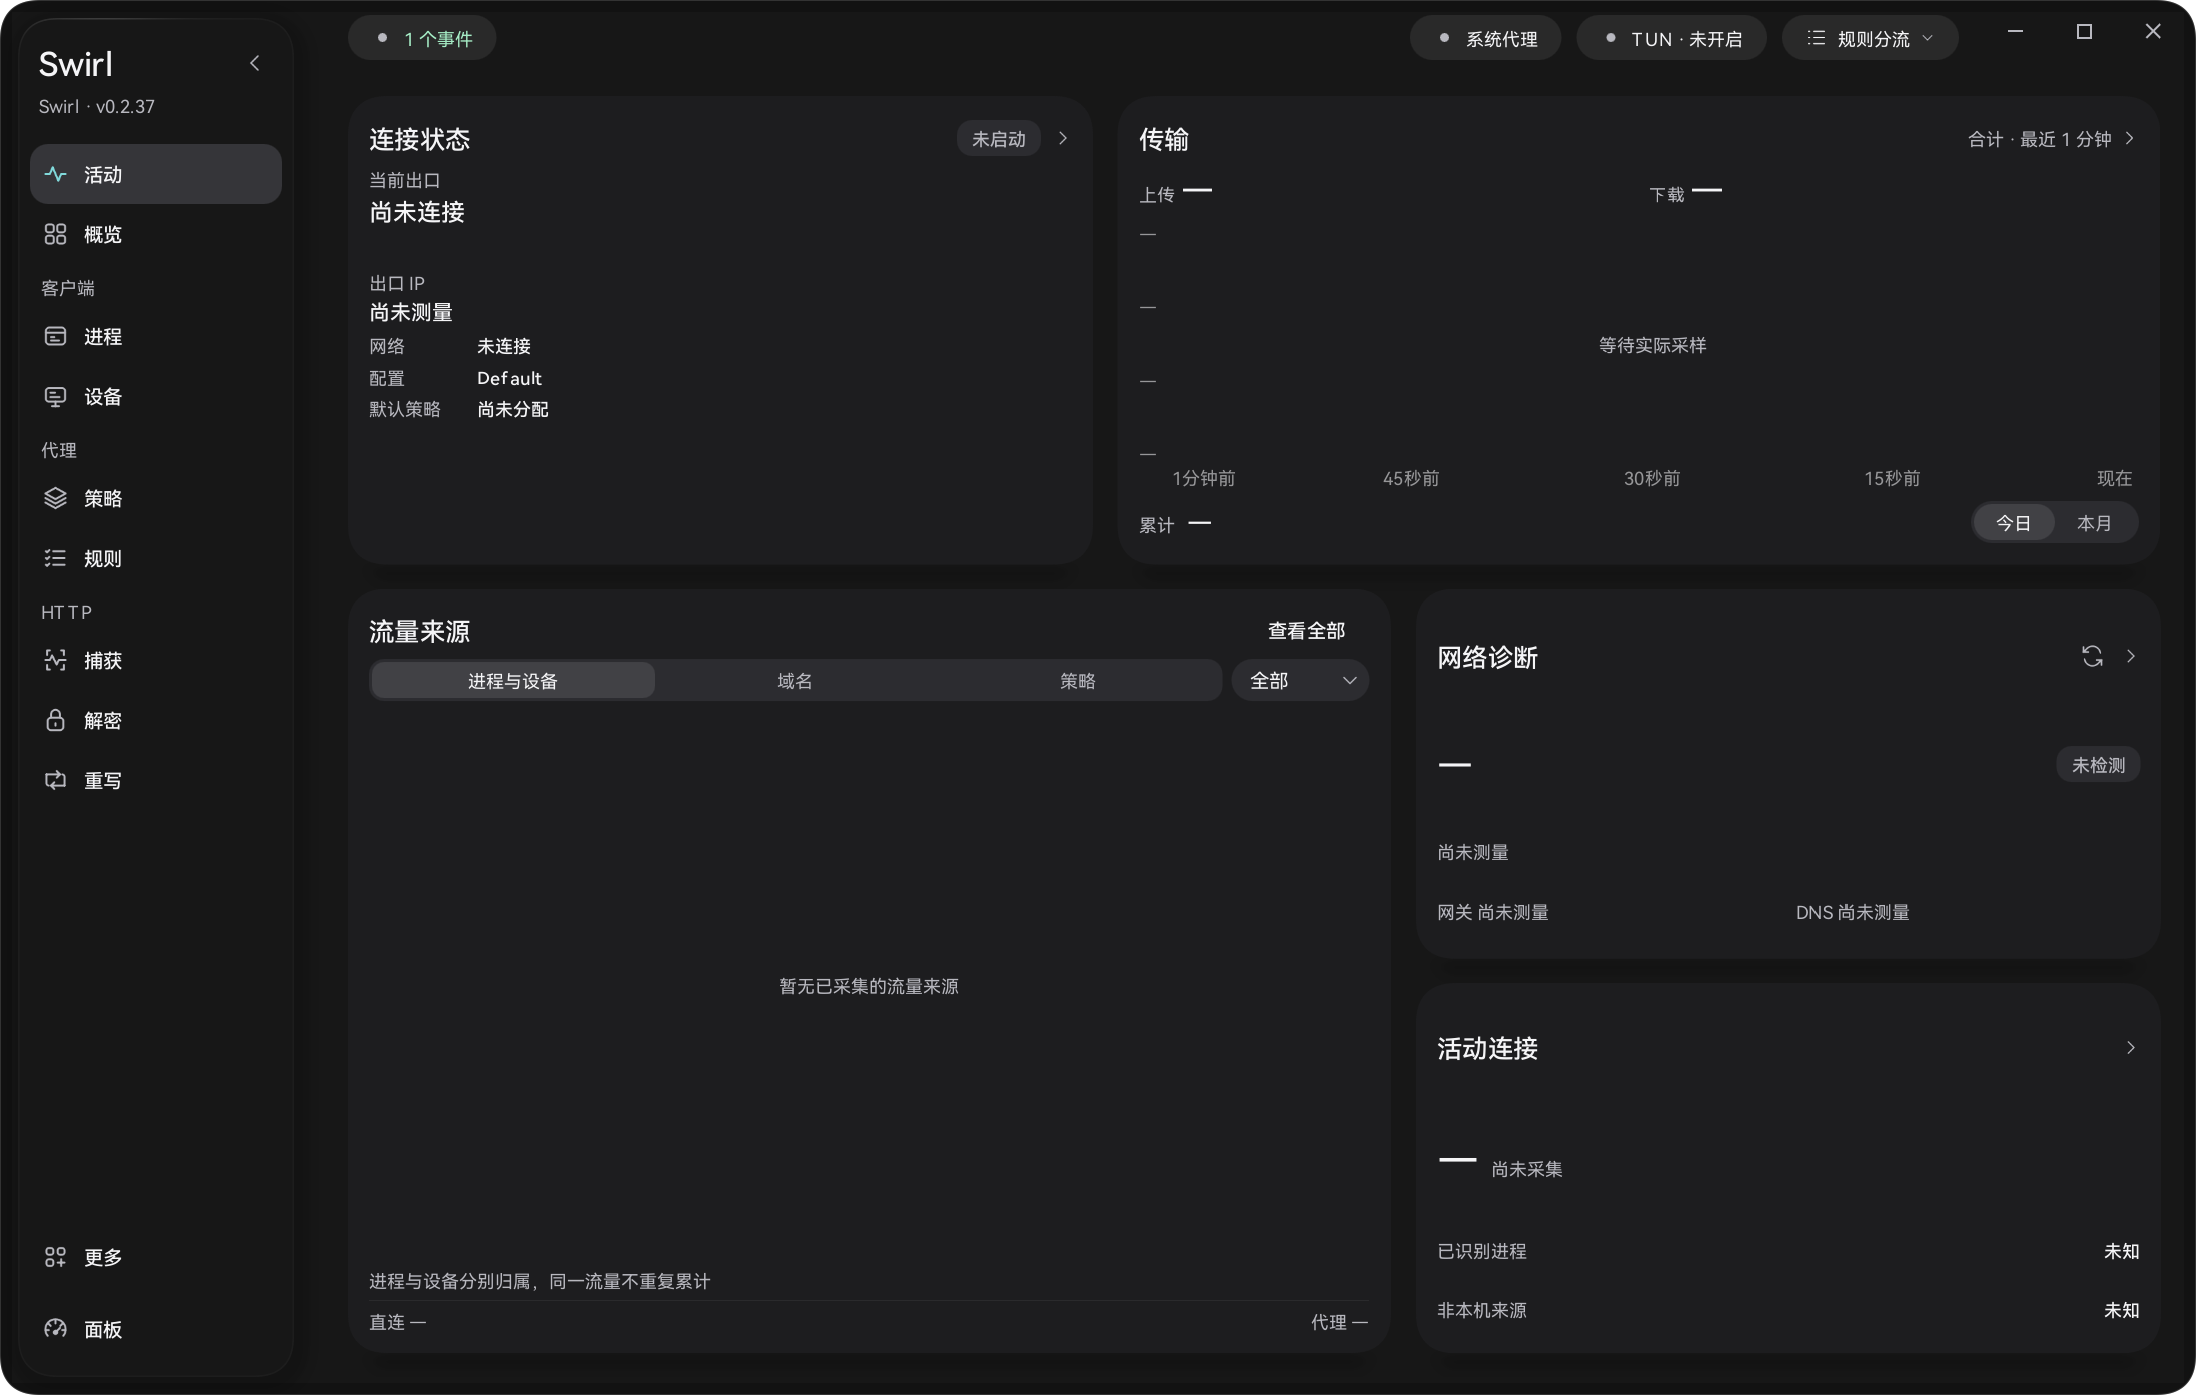
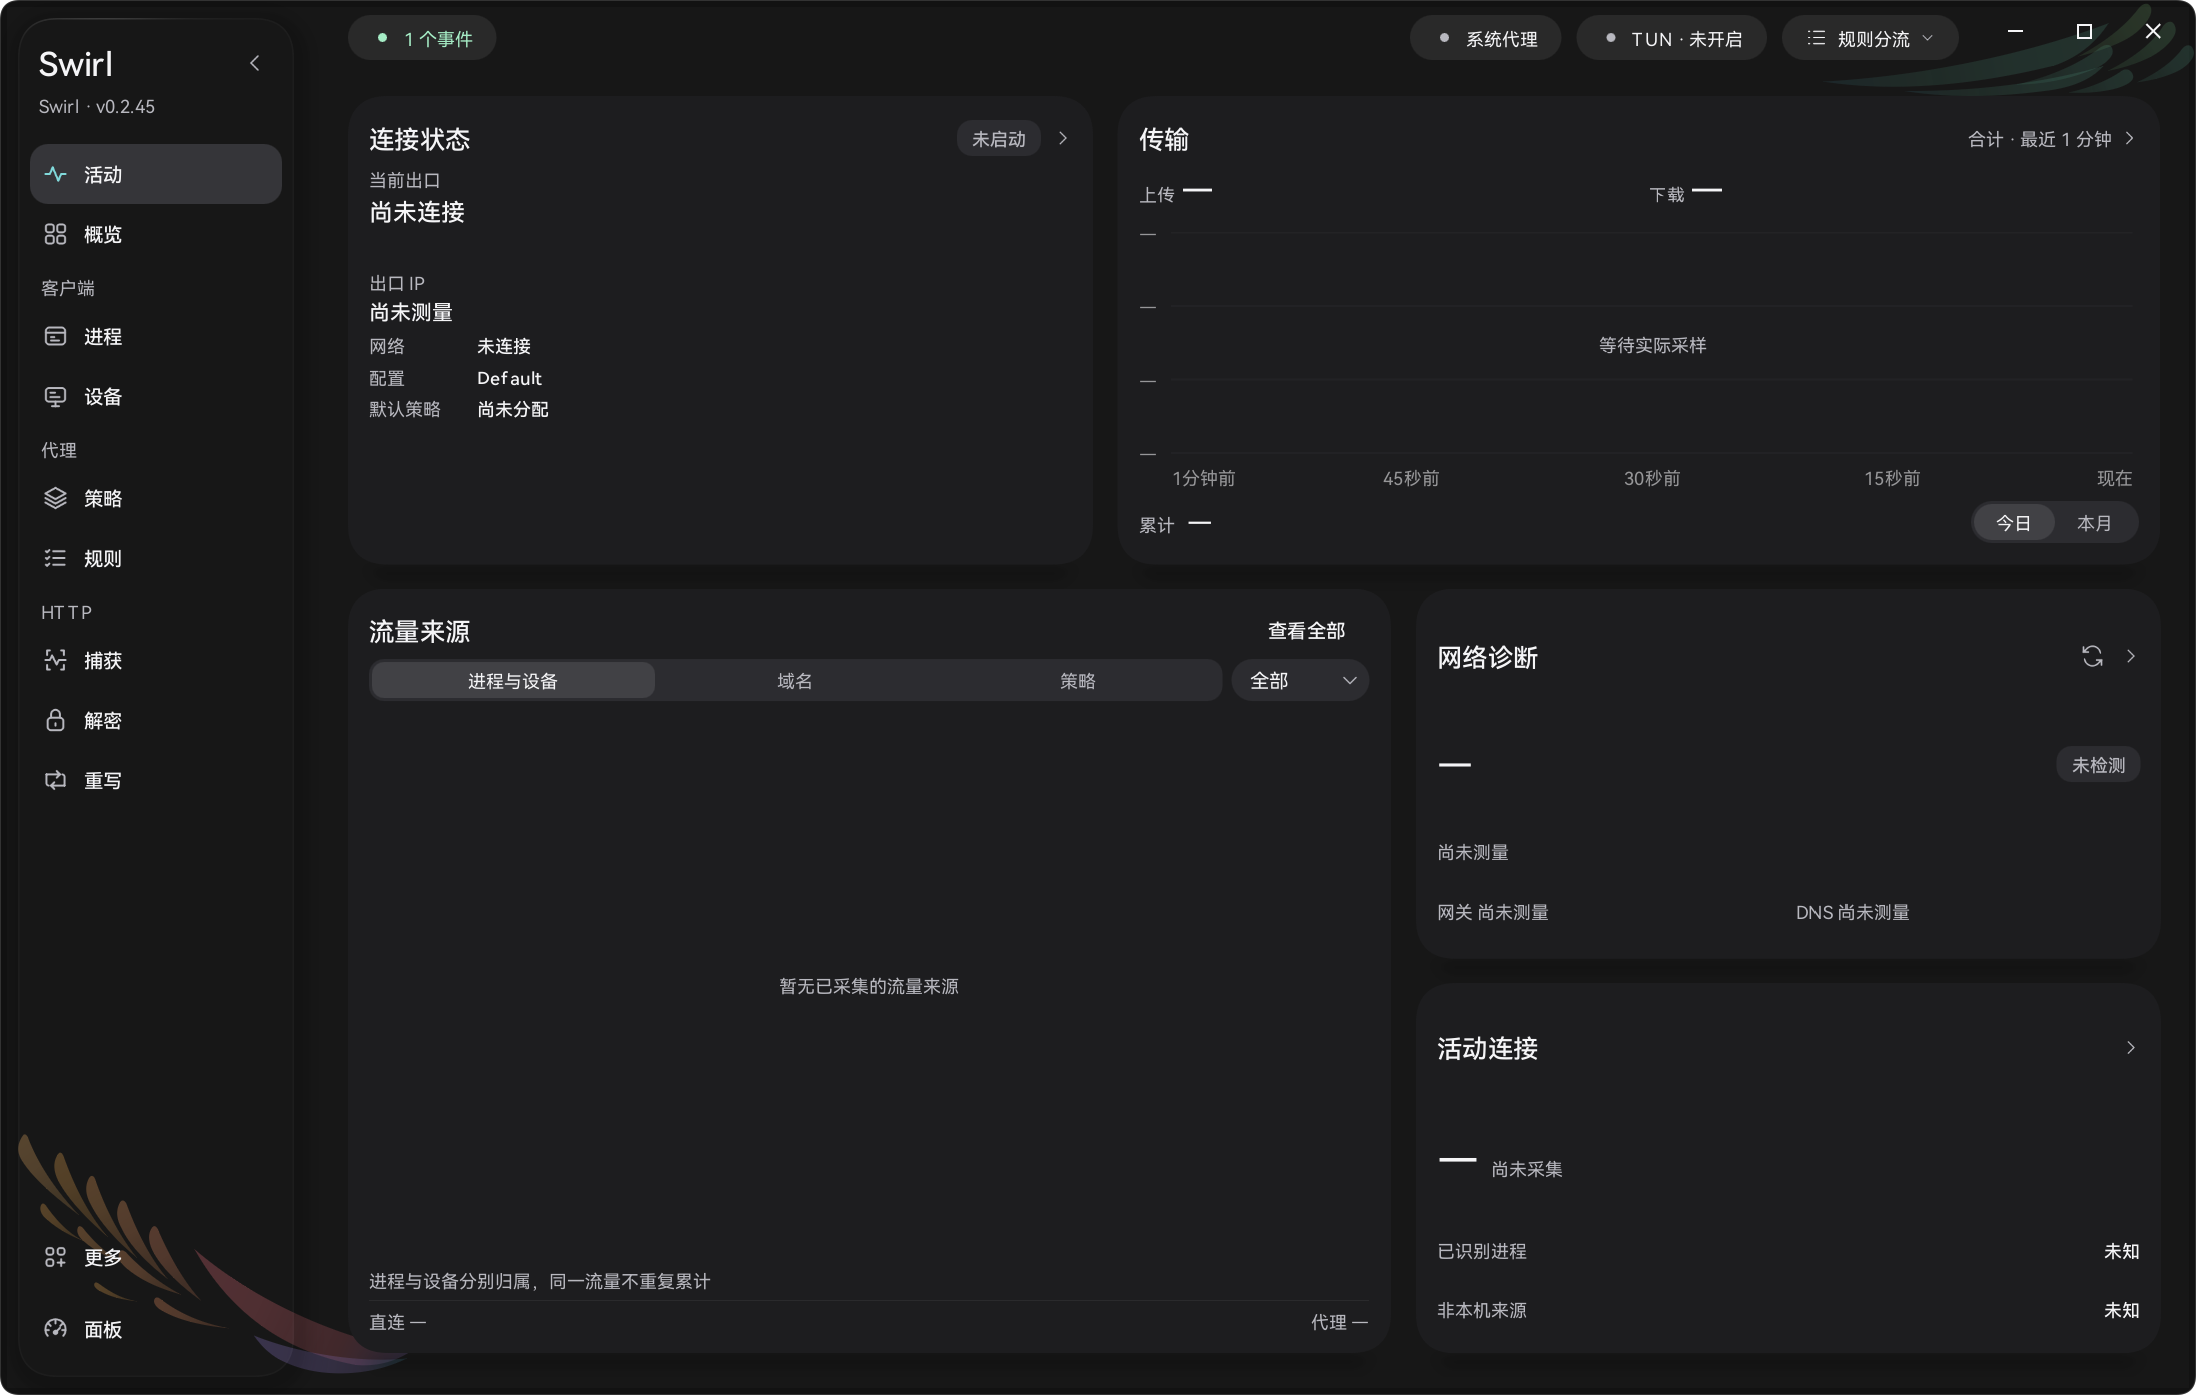
docs: refresh settled light and dark captures for 0.2.45

diff --git a/docs/screenshots/README.md b/docs/screenshots/README.md
@@ -11,7 +11,7 @@
 
 截图只展示 UI，不能证明远程节点、TUN、LAN 或 Codex 会话已经通过验收，也不能据此推断动画帧率。截图与本次构建源码配套，修改界面后重新构建与截图，不复用历史图片充当当前版本。来源、版本和文件哈希见[拍摄记录](apec-capture-manifest.json)。
 
-两张图片同时展示在首页，不随阅读者的系统主题隐藏其中一张。当前截图为 0.2.37 的五卡活动页，渲染构建来源为 `c126bdc65a061e0b56b97c2735703d7eb341195e`。截图采用本地 MinGW Release 验证构建；最终 MSVC 安装包需单独核对来源。
+两张图片同时展示在首页，不随阅读者的系统主题隐藏其中一张。当前截图为 0.2.45 的五卡活动页，渲染构建来源为 `407f70bc13268a2b259a3e400decf922cf0fbd10`。截图采用本地 MinGW Release 验证构建；最终 MSVC 安装包需单独核对来源。
 
 拍摄使用程序既有的 `--capture-preview`、`--preview-page=activity` 和浅色/深色主题参数，并为每张图片设置新的 `SWIRL_TEST_ROOT`。仅预置该配置的主题偏好，并使用 `--preview-preserve-settings` 让主题在 QML 加载前生效；动画仍保持开启，避免把运行时主题切换的中间帧当成静态截图。实际运行 Windows QPA / D3D11，使用正常主题、字体及控件绘制，通过 `QQuickWindow` 导出窗口画面，不截取用户桌面、不改写界面数据，也未通过图像重绘或合成替换软件外观。原始 DPR 为 1.5，逻辑窗口为 1464×930，图片为 2196×1395。窗口图像不包含外层 Windows 桌面与独立 DWM 辅助窗口，不能作为物理显示呈现验收。
 

diff --git a/README.md b/README.md
@@ -20,7 +20,7 @@ Swirl 是面向 Windows 的网络工具，桌面界面使用 **C++23、Qt 6 Quic
 
 [浅色界面](docs/screenshots/apec-activity-light.png) · [深色界面](docs/screenshots/apec-activity-dark.png) · [截图来源与历史索引](docs/screenshots/README.md)
 
-两张截图来自同一份 0.2.37 真实 Windows 构建（源码 `c126bdc6`），使用隔离空配置，未连接代理。未添加演示节点、出口 IP、延迟或流量；运行中的祥云结也不会出现在未连接状态。截图展示界面，不代表真实远端网络或私有订阅已通过验收。
+两张截图来自同一份 0.2.45 真实 Windows 构建（源码 `407f70bc`），使用隔离空配置，未连接代理。未添加演示节点、出口 IP、延迟或流量；运行中的祥云结也不会出现在未连接状态。截图展示界面，不代表真实远端网络或私有订阅已通过验收。
 
 ## 界面与交互
 
